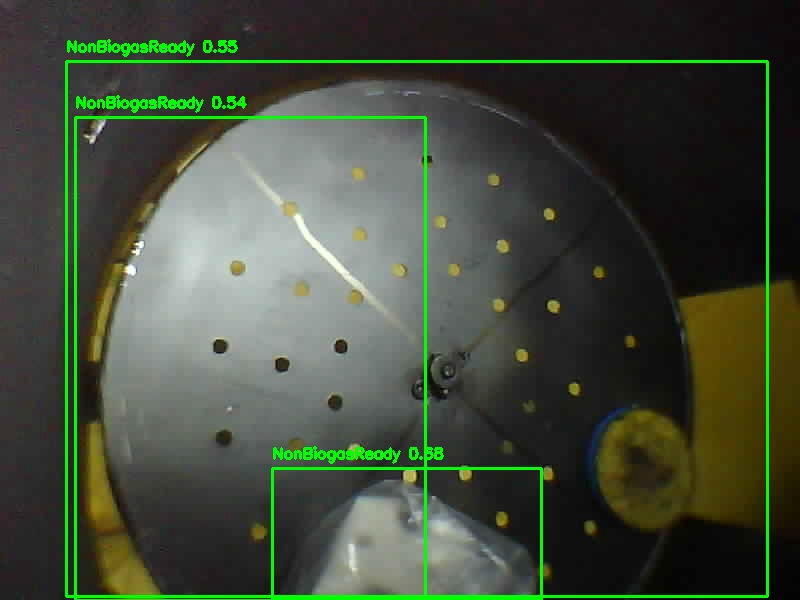
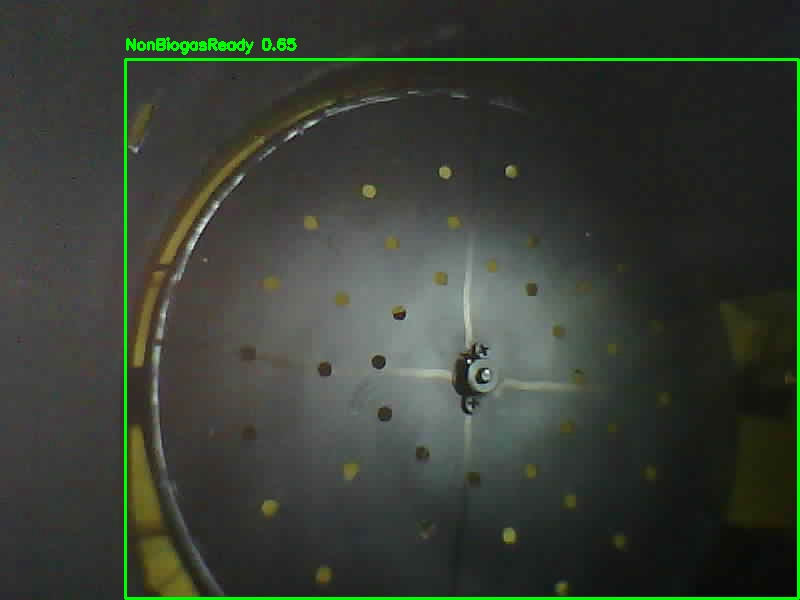
Update the 2nd layer and add test.py for angle of rotation at 4 time with robotic hand!!

diff --git a/test.py b/test.py
@@ -12,8 +12,8 @@ model = YOLO("biogas.pt")  # Load YOLO model
 arduino = serial.Serial(port="COM11", baudrate=9600, timeout=1)
 time.sleep(2)  # Allow Arduino to initialize
 
-# Define angles (Only 0° and 90°)
-rotation_angles = [0, 90]
+# Define a single angle (0°)
+rotation_angle = 0
 
 def send_command(cmd):
     """Send a command to Arduino and print its response."""
@@ -65,28 +65,23 @@ def detect_objects(frame):
     return detected_objects
 
 def main():
-    """Main loop to rotate plate between 0° and 90°, detect objects, and activate robotic hand."""
-    for angle in rotation_angles:
-        print(f"\n🔄 --- Moving Plate to {angle}° ---")
-        send_command(f"ROTATE:{angle}")  # Command to rotate plate
-        time.sleep(3)  # Wait for plate to move
+    """Main loop to detect objects at a fixed 0° angle and activate robotic hand if needed."""
+    print(f"\n🔄 --- Moving Plate to {rotation_angle}° ---")
+    send_command(f"ROTATE:{rotation_angle}")  # Command to rotate plate to 0°
+    time.sleep(3)  # Wait for plate to move
 
-        print("\n📸 --- Capturing Image ---")
-        frame = capture_image()
-        if frame is None:
-            continue  # Skip to next iteration if image capture fails
+    print("\n📸 --- Capturing Image ---")
+    frame = capture_image()
+    if frame is None:
+        return  # Exit if image capture fails
 
-        print("\n🔍 --- Running Object Detection ---")
-        detected_objects = detect_objects(frame)
+    print("\n🔍 --- Running Object Detection ---")
+    detected_objects = detect_objects(frame)
 
-        if detected_objects:
-            print("\n🤖 --- Activating Robotic Hand ---")
-            send_command("MOVE")  # Trigger robotic hand
-            time.sleep(3)  # Allow time for hand movement
-
-        print("\n🔄 --- Moving Plate to Next Position ---")
-        send_command("NEXT_POSITION")
-        time.sleep(2)  # Allow plate to move
+    if detected_objects:
+        print("\n🤖 --- Activating Robotic Hand ---")
+        send_command("MOVE")  # Trigger robotic hand
+        time.sleep(3)  # Allow time for hand movement
 
     print("✅ Process Completed Successfully!")
 
